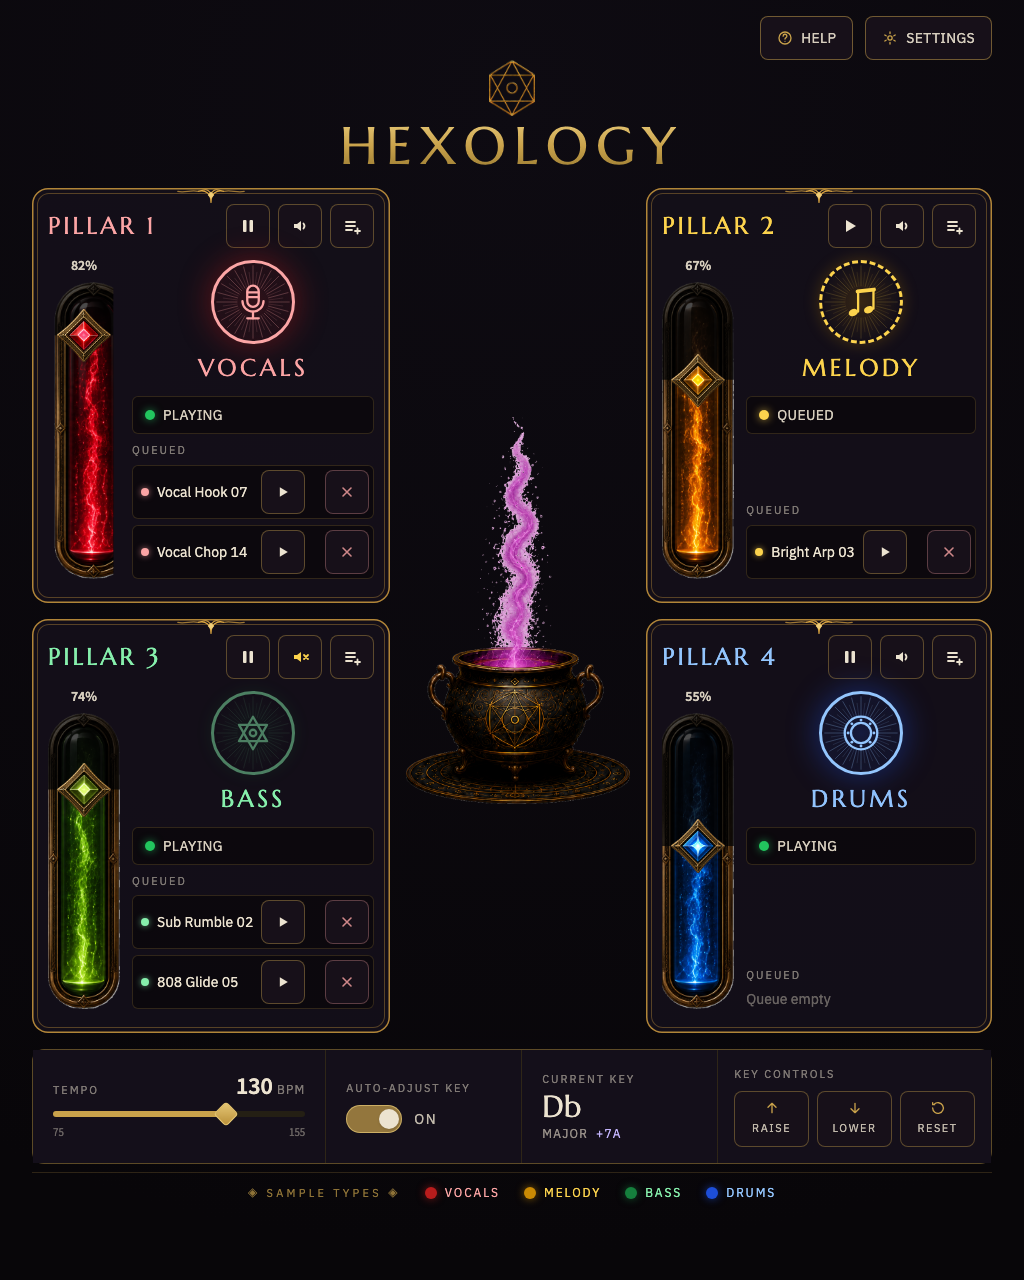
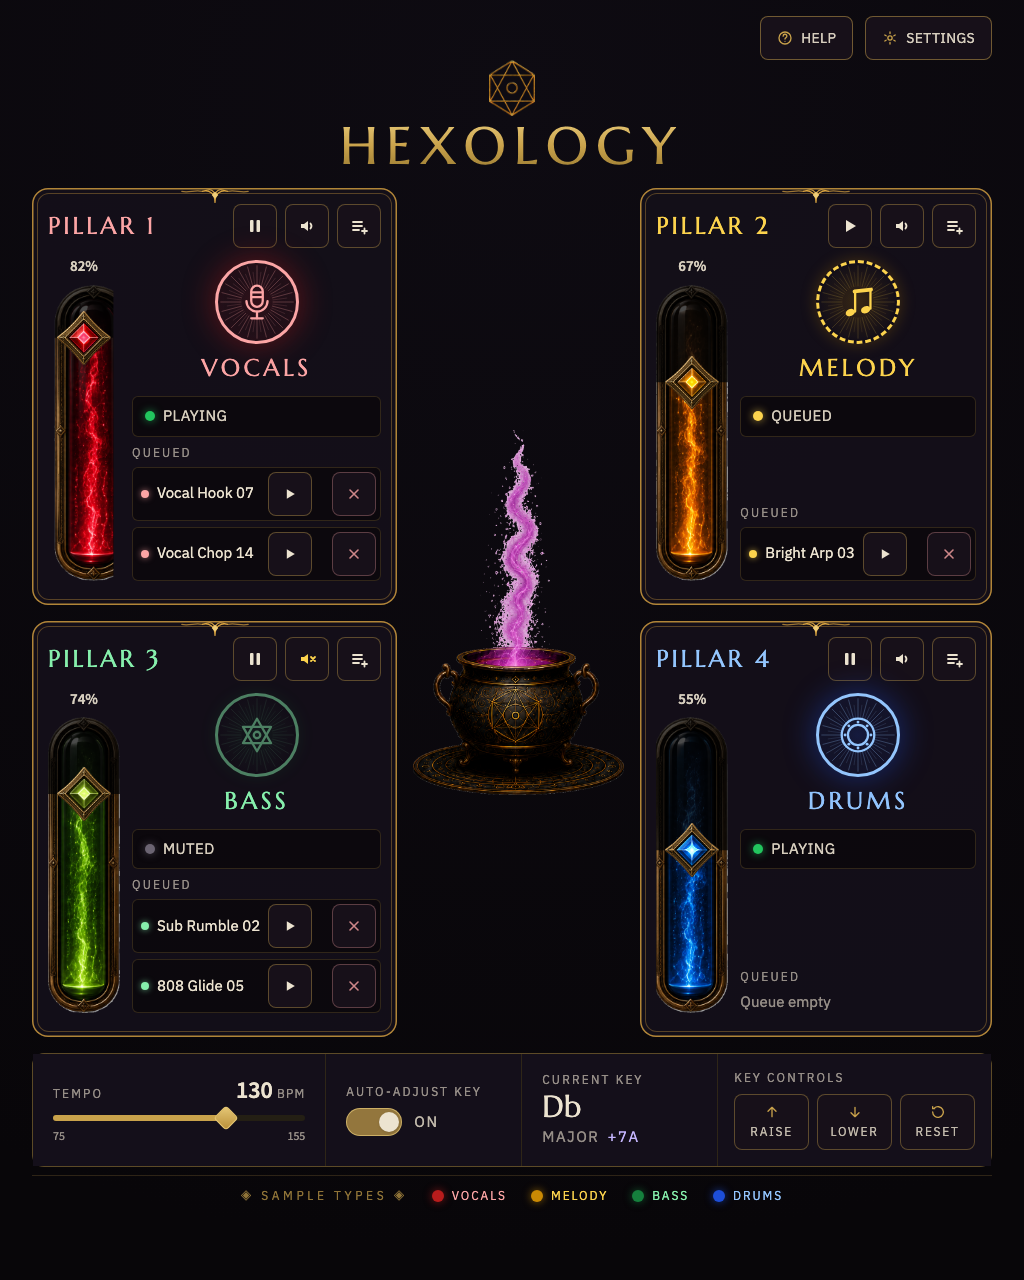
fix(wow-007a): address frontend-ui-designer review
Required: 44px hit area around the auto-adjust toggle (visual pill
unchanged); data/status text raised to the 15px floor and labels to
12px (§7.3); failing parchment/40-50 text opacities raised to /60 for
AA (§7.2). Recommended: MUTED status text cue overrides the playback
label (with dot colour, §3.9); sr-only volume label; key-control
accessible names ("Raise key" etc.); icon-set revision reconciled in
DECISIONS_NEEDED; remaining items recorded with rationales in the
implementation note. Refreshes the 1024x1280 screenshot.

diff --git a/src/component/SettingsBand.tsx b/src/component/SettingsBand.tsx
@@ -14,7 +14,8 @@ type Props = {
 const KeyControlButton = ({ glyph, label }: { glyph: JSX.Element; label: string }): JSX.Element => (
   <button
     type='button'
-    className='flex min-h-[56px] flex-1 flex-col items-center justify-center gap-1 rounded-lg border border-gold-line/40 bg-ink-btn px-3 font-data text-[11px] uppercase tracking-[0.14em] text-parchment/80'
+    aria-label={`${label} key`}
+    className='flex min-h-[56px] flex-1 flex-col items-center justify-center gap-1 rounded-lg border border-gold-line/40 bg-ink-btn px-3 font-data text-xs uppercase tracking-[0.14em] text-parchment/80'
   >
     <svg
       viewBox='0 0 24 24'
@@ -59,7 +60,7 @@ export const SettingsBand = ({
           <SectionLabel>Tempo</SectionLabel>
           <span className='font-number text-2xl font-semibold tabular-nums text-parchment'>
             {tempoBpm}
-            <span className='ml-1 font-data text-xs font-normal uppercase tracking-widest text-parchment/50'>
+            <span className='ml-1 font-data text-xs font-normal uppercase tracking-widest text-parchment/60'>
               bpm
             </span>
           </span>
@@ -71,7 +72,7 @@ export const SettingsBand = ({
             className='absolute top-1/2 h-[18px] w-[18px] -translate-y-1/2 rotate-45 rounded-[4px] border border-gold-bright/80 bg-gradient-to-br from-gold-bright to-[#b98f38]'
           />
         </div>
-        <div className='flex justify-between font-number text-[11px] tabular-nums text-parchment/40'>
+        <div className='flex justify-between font-number text-xs tabular-nums text-parchment/60'>
           <span>{tempoMin}</span>
           <span>{tempoMax}</span>
         </div>
@@ -81,23 +82,28 @@ export const SettingsBand = ({
       <div className='flex flex-col justify-center gap-2 bg-ink-panel px-5 py-4'>
         <SectionLabel>Auto-adjust key</SectionLabel>
         <div className='flex items-center gap-3'>
+          {/* 44px hit area wrapping the visually 56x28 pill (§7.1). */}
           <button
             type='button'
             aria-pressed={autoAdjustKey}
             aria-label='Auto-adjust key'
-            className={`relative h-7 w-14 rounded-full border transition-colors ${
-              autoAdjustKey
-                ? 'border-gold-bright/70 bg-gold-line/70'
-                : 'border-gold-line/30 bg-ink-btn'
-            }`}
+            className='-my-2 flex min-h-[44px] min-w-[56px] items-center justify-center'
           >
             <span
-              className={`absolute top-1/2 h-5 w-5 -translate-y-1/2 rounded-full bg-parchment shadow ${
-                autoAdjustKey ? 'left-[calc(100%-22px)]' : 'left-1'
+              className={`relative block h-7 w-14 rounded-full border transition-colors ${
+                autoAdjustKey
+                  ? 'border-gold-bright/70 bg-gold-line/70'
+                  : 'border-gold-line/30 bg-ink-btn'
               }`}
-            />
+            >
+              <span
+                className={`absolute top-1/2 h-5 w-5 -translate-y-1/2 rounded-full bg-parchment shadow ${
+                  autoAdjustKey ? 'left-[calc(100%-22px)]' : 'left-1'
+                }`}
+              />
+            </span>
           </button>
-          <span className='font-data text-sm tracking-widest text-parchment/80'>
+          <span className='font-data text-[15px] tracking-widest text-parchment/80'>
             {autoAdjustKey ? 'ON' : 'OFF'}
           </span>
         </div>
@@ -109,7 +115,7 @@ export const SettingsBand = ({
         <div className='flex items-baseline gap-2'>
           <span className='font-display text-3xl leading-none text-parchment'>{currentKey}</span>
         </div>
-        <div className='flex items-center gap-2 font-data text-xs uppercase tracking-widest'>
+        <div className='flex items-center gap-2 font-data text-[15px] uppercase tracking-widest'>
           <span className='text-parchment/60'>{keyQuality}</span>
           <span className='text-violet-300'>{keyDifference}</span>
         </div>

diff --git a/src/component/PillarCard.tsx b/src/component/PillarCard.tsx
@@ -31,6 +31,10 @@ const statusDotHex = (status: PillarStatus, tintHex: string): string => {
   }
 };
 
+// Muted overrides the playback status as a text cue (§3.9 muted token), so the
+// state never relies on the speaker icon alone.
+const MUTED_DOT_HEX = '#6b6472';
+
 /**
  * One pillar card — the single most-reused unit of the play-mode screen. All
  * four instances share this structure; only `category` + live state differ
@@ -42,7 +46,8 @@ export const PillarCard = ({ pillar }: Props): JSX.Element => {
   const tokens = category ? CategoryTheme.forType(category) : undefined;
 
   const headerStyle = tokens ? { color: tokens.tintHex } : undefined;
-  const dotHex = statusDotHex(status, tokens?.tintHex ?? '#9a9080');
+  const dotHex = muted ? MUTED_DOT_HEX : statusDotHex(status, tokens?.tintHex ?? '#9a9080');
+  const statusLabel = muted ? 'MUTED' : STATUS_LABEL[status];
   const visibleQueued = queued.slice(0, MAX_QUEUED_ROWS);
 
   return (
@@ -80,7 +85,7 @@ export const PillarCard = ({ pillar }: Props): JSX.Element => {
                   {tokens.label}
                 </p>
               ) : (
-                <p className='font-data text-sm uppercase tracking-[0.14em] text-parchment/40'>
+                <p className='font-data text-[15px] uppercase tracking-[0.14em] text-parchment/60'>
                   awaiting ingredient
                 </p>
               )}
@@ -92,8 +97,8 @@ export const PillarCard = ({ pillar }: Props): JSX.Element => {
                 className='h-2.5 w-2.5 rounded-full'
                 aria-hidden='true'
               />
-              <span className='font-data text-sm tracking-wide text-parchment/90'>
-                {STATUS_LABEL[status]}
+              <span className='font-data text-[15px] tracking-wide text-parchment/90'>
+                {statusLabel}
               </span>
             </div>
 
@@ -111,7 +116,7 @@ export const PillarCard = ({ pillar }: Props): JSX.Element => {
                     ))}
                   </ul>
                 ) : (
-                  <p className='font-data text-sm text-parchment/40'>Queue empty</p>
+                  <p className='font-data text-[15px] text-parchment/60'>Queue empty</p>
                 )}
               </div>
             )}

diff --git a/src/component/test/PillarCard.test.tsx b/src/component/test/PillarCard.test.tsx
@@ -63,9 +63,14 @@ describe('PillarCard', () => {
     expect(queryByRole('button', { name: 'Pause' })).not.toBeInTheDocument();
   });
 
-  it('shows an Unmute control when muted', () => {
+  it('shows MUTED status and an Unmute control when muted', () => {
     const muted: PillarView = { ...vocalsPillar, muted: true };
-    const { getByRole, queryByRole } = render(<PillarCard pillar={muted} />);
+    const { getByText, queryByText, getByRole, queryByRole } = render(
+      <PillarCard pillar={muted} />,
+    );
+    // Muted overrides the playback status as a text cue (never icon-only).
+    expect(getByText('MUTED')).toBeInTheDocument();
+    expect(queryByText('PLAYING')).not.toBeInTheDocument();
     expect(getByRole('button', { name: 'Unmute' })).toBeInTheDocument();
     expect(queryByRole('button', { name: 'Mute' })).not.toBeInTheDocument();
   });

diff --git a/src/component/VolumeTube.tsx b/src/component/VolumeTube.tsx
@@ -35,7 +35,11 @@ export const VolumeTube = ({ volumePercent, assetSlug }: Props): JSX.Element => 
 
   return (
     <div className='flex w-[72px] select-none flex-col items-center gap-1.5'>
-      <span className='font-number text-sm font-semibold tabular-nums text-parchment/90'>
+      {assetSlug && <span className='sr-only'>{`Volume ${clamped}%`}</span>}
+      <span
+        aria-hidden='true'
+        className='font-number text-[15px] font-semibold tabular-nums text-parchment/90'
+      >
         {assetSlug ? `${clamped}%` : ' '}
       </span>
       <div className='relative min-h-0 w-full flex-1'>

diff --git a/src/component/Legend.tsx b/src/component/Legend.tsx
@@ -10,7 +10,7 @@ const CATEGORIES: ClipTypes[] = [ClipTypes.Vox, ClipTypes.Melody, ClipTypes.Bass
  */
 export const Legend = (): JSX.Element => (
   <div className='flex items-center justify-center gap-6'>
-    <span className='font-data text-[11px] uppercase tracking-[0.3em] text-gold-line/70'>
+    <span className='font-data text-xs uppercase tracking-[0.3em] text-gold-line/70'>
       ◈ Sample Types ◈
     </span>
     <ul className='flex items-center gap-6'>

diff --git a/src/component/QueuedSampleRow.tsx b/src/component/QueuedSampleRow.tsx
@@ -44,7 +44,7 @@ export const QueuedSampleRow = ({ name, tintHex }: Props): JSX.Element => {
   return (
     <li className='flex items-center gap-2 rounded-md border border-gold-line/20 bg-ink-deep/70 py-1 pl-2 pr-1'>
       <span style={pip} className='h-2 w-2 shrink-0 rounded-full' aria-hidden='true' />
-      <span className='flex-1 truncate font-data text-sm text-parchment/85'>{name}</span>
+      <span className='flex-1 truncate font-data text-[15px] text-parchment/85'>{name}</span>
       <IconButton label={`Play ${name}`} className='h-11 w-11 shrink-0'>
         <PlayGlyph />
       </IconButton>

diff --git a/src/component/SectionLabel.tsx b/src/component/SectionLabel.tsx
@@ -4,7 +4,7 @@ type Props = {
 
 /** Small-caps, letter-spaced section label ("QUEUED", "TEMPO") — §3.4 type/label. */
 export const SectionLabel = ({ children }: Props): JSX.Element => (
-  <p className='font-data text-[11px] font-medium uppercase tracking-[0.18em] text-parchment/50'>
+  <p className='font-data text-xs font-medium uppercase tracking-[0.18em] text-parchment/60'>
     {children}
   </p>
 );

diff --git a/docs/agent-notes/wow-007a-frontend-ui-designer-review.md b/docs/agent-notes/wow-007a-frontend-ui-designer-review.md
@@ -1,0 +1,64 @@
+# WOW-007A — Play-mode visual-fidelity spike — frontend-ui-designer review
+
+- **Ticket:** WOW-007A (play-mode visual-fidelity spike)
+- **Date:** 2026-07-17
+- **Reviewer role:** frontend-ui-designer (structure / accessibility / spec-compliance only — **not** the visual-art-direction gate, which is human-owned and was granted in-session at iteration round 7)
+- **Reviewed SHA:** `313e90f4ff00aaacb9ea77023535173ad3155d50` (`feat/wow-007a-play-mode-visual-spike`, diff `main...HEAD`)
+- **Verdict:** **approve-with-nits** — the structural, semantic, motion, and layout acceptance criteria all pass; the Required items below are objective §7 floor violations that are mechanical one-line class fixes and do **not** alter the human-approved look. Fix them in this PR's fix round (preferred) or as explicit WOW-007 line items.
+
+## How this was verified
+
+- Read the full `main...HEAD` diff (all new components, tokens, types, mock, tests, config).
+- `yarn test`: 30 files / 229 tests green.
+- Live DOM inspection at exactly **1024×1280** on the running dev server (`#play-spike`): `scrollHeight === 1280`, `scrollWidth === 1024` (no scroll either axis), zero console errors.
+- Measured every rendered `<button>` bounding box and the computed font-size of each representative text role.
+- Computed WCAG contrast ratios (alpha-blended against effective backgrounds) for every low-opacity text token used.
+
+## Required
+
+1. **Auto-adjust-key toggle is 56×28 px — below the 44 px touch floor** (`src/component/SettingsBand.tsx:88`, `h-7 w-14`). §7.1 sets a hard 44 px floor and _specifically_ cites the old audit UI-05 24 px toggle as the thing it fixes; this re-introduces the same violation on the new screen (measured live: 56×28). Fix: enlarge the control, or keep the 28 px visual pill and extend the hit area to ≥44 px (padding / pseudo-element), plus ≥8 px clearance from neighbours.
+2. **Data/status text below the 15 px floor (§7.3)** — measured live at 14 px (`text-sm`) or 12 px (`text-xs`):
+   - `src/component/PillarCard.tsx:95` — pillar status text ("PLAYING"/"QUEUED"/…), 14 px. Operator-critical.
+   - `src/component/QueuedSampleRow.tsx:47` — queued sample name, 14 px.
+   - `src/component/VolumeTube.tsx:38` — volume percentage, 14 px.
+   - `src/component/SettingsBand.tsx:100` — toggle ON/OFF state, 14 px.
+   - `src/component/SettingsBand.tsx:112–115` — key quality + key difference, 12 px.
+     Fix: `text-[15px]`/`text-base` (data) per §7.3. (Category names are exactly 24 px — meets the ≥24 px floor; tempo value 24 px — fine.)
+3. **Labels below the 12 px floor (§7.3)** — measured at 11 px:
+   - `src/component/SectionLabel.tsx:7` — all section labels ("QUEUED", "TEMPO", "CURRENT KEY", "KEY CONTROLS", …).
+   - `src/component/SettingsBand.tsx:17` — Raise/Lower/Reset button labels.
+   - `src/component/Legend.tsx:13` — "Sample Types" legend label.
+   - `src/component/SettingsBand.tsx:74` — tempo min/max range values (data-adjacent, also 11 px).
+     Fix: bump to ≥12 px.
+4. **Measured AA contrast failures on non-category text (§7.2)** — the §3.3 category-tint system itself passes handsomely (tints 9.9–13.5:1, verified), but the low-opacity parchment strings fall short on the panel:
+   - `text-parchment/40` ≈ **3.24:1** (needs 4.5:1): "Queue empty" (`src/component/PillarCard.tsx:114`), "awaiting ingredient" (`src/component/PillarCard.tsx:83`), tempo min/max (`src/component/SettingsBand.tsx:74`).
+   - `text-parchment/50` ≈ **4.41:1** (marginally under 4.5:1 at 11 px): `src/component/SectionLabel.tsx:7`. (The empty-pillar header at 24 px display passes the 3:1 large-text bar at the same opacity — fine.)
+     Fix: raise these to ≈`/60`+ (5.9:1 measured) — imperceptible against the approved look. The axe-core pass is already WOW-007 acceptance scope; these concrete values are supplied so that pass starts from known numbers rather than re-discovering them.
+
+## Recommended
+
+1. **Muted state is under-signalled vs the §4 state model** (`src/component/PillarCard.tsx:95` + `src/component/PillarMedallion.tsx:79`): mock pillar 3 is muted yet the status row reads "PLAYING"; mute is conveyed only by the small speaker-x icon and a medallion dim (no §4 slash overlay / greyed name). Not colour-only (icon carries it), so not a §7.2 violation — but "why is pillar 3 silent" (UX principle 4) deserves an explicit "MUTED" text cue in the status row when wired.
+2. **Volume value has no label** (`src/component/VolumeTube.tsx:38`): a bare "82%" — percent of what? Add a small "VOL" section label or an `aria-label`/`role="img"` name on the tube group for screen-reader and operator clarity.
+3. **Key-control accessible names**: buttons expose "Raise"/"Lower"/"Reset" (`src/component/SettingsBand.tsx:122–124`); the requirements name them exactly "Raise key / Lower key / Reset key" (visual-direction, Required layout corrections). The section label carries it visually; add `aria-label='Raise key'` etc. so the standalone names match the spec.
+4. **Bass icon meaning conflicts with the recorded icon decision**: `src/component/CategoryIcon.tsx:11–14` cites "human direction 2026-07-15" for a hexagram (Bass) + beamed notes (Melody), but DESIGN_PROPOSAL_001 §2/§3.3 and DECISIONS_NEEDED record the opposite 2026-07-15 decision — conventional mic / treble-clef / bass-clef / drum-kit, with "no arbitrary occult symbol" for a category. Icons are already flagged interim (no re-flag of that); the ask here is **reconcile the record**: either the human re-decided in-session (then update §3.3 / DECISIONS_NEEDED) or the interim glyphs' _meanings_ should converge on the decided set when the bespoke icon task runs.
+5. **Legend dot for Drums** (`src/component/Legend.tsx:22`): blue-700 fill measures ≈2.8:1 non-text against the panel/page — the exact §7.2 Drums-ring caveat. Adjacent text carries the meaning, so no cue is lost; make sure the WOW-007 automated pass checks the legend dots too, not just the medallion rings.
+6. **`text-violet-300` for the key difference** (`src/component/SettingsBand.tsx:114`): an off-system hue — violet is neither a category hue nor a §3.9 semantic token. Contrast is fine (10.2:1); consider a named token (or parchment) so the palette stays closed. Also note "+7A" is mock data echoing the reference image's placeholder string (§2 non-literal); the real key-difference format comes from the contract when wired.
+7. **Focus indicators**: `src/component/IconButton.tsx:22` and the other buttons define no `focus-visible` treatment; §3.5 specifies a 3 px gilt ring, 2 px offset. Browser defaults currently apply (nothing is suppressed), so this is a wiring-phase task, not a defect.
+8. **Tempo slider**: display-only `div`s in the spike (fine); when wired, the thumb needs the §3.6 ≥44 px invisible hit area — carry into WOW-007.
+
+## What passes (verified)
+
+- **Touch targets** (except the toggle above): every rendered button measures ≥44×44 — pillar controls 44×44, queue play/remove 44×44 with 12 px separation and red-tinted remove, Help/Settings 44 high, key controls 56 high. Inter-target spacing ≥8 px everywhere measured (queue rows: 14 px effective button-to-button).
+- **Typography roles (§3.4)**: decorative Marcellus confined to wordmark / pillar headers / category names / key glyph (all §3.4-sanctioned); every operator-critical string is in the legible data/number faces. Sizes fail only the floors listed above.
+- **Category text = `-300` tints, never raw `-700`** (§3.3/§7.2): verified across medallion, name, legend; fills reserved for dots/glows/LED-match. `ColorUtil` stays the single source of truth (`CategoryTheme` layering is clean and unit-asserted).
+- **Motion (§7.4)**: exactly one ambient animation — `pulse-calm`, 2.4 s opacity ease (≈0.42 Hz), `motion-safe`-gated; queued state stays distinguishable without it (dashed ring). Cauldron is a static image. The pre-existing 200 ms `fadein` keyframe is legacy config, untouched by and unused in this screen. Nothing flashes.
+- **Colour never the only cue**: status = dot + text; queued = dashed ring + pulse + text; empty = "?" + text; categories = icon + name + colour; legend = dot + name.
+- **Semantics**: single `h1` (HEXOLOGY), four `h2` pillars in order, `ul/li` for queues and legend, `aria-label` on every icon-only button, `aria-pressed` on the toggle, decorative images `alt=''`+`aria-hidden`, cauldron `alt='Cauldron'`, zero images missing `alt`.
+- **Layout**: exact 1024×1280 fit (scrollHeight/Width 1280/1024, no scroll), four identical `PillarCard` instances (symmetry by construction — one component, category+state props only), empty pillar shows no category identity (no icon/name/colour; grayscale tube; unit-tested).
+- **No rejected aesthetics**: no generic dashboard, no broad glossy gradients, no Fondamento in the new surface, placeholder status of interim icons explicitly labelled in code and the implementation note.
+
+## Explicitly out of scope for this review
+
+- **The visual-fidelity gate itself** — human-owned (DESIGN_PROPOSAL_001 §"Visual-fidelity gate"); the human approved this render through 7 in-session rounds. Nothing here grants or withholds visual approval.
+- **Human-directed visual choices** — asset selection/processing, amber double-border frame + top-centre flourish, inner ray-burst medallion treatment, header control placement, queued-row design, wordmark gilt gradient, two-row queue cap. Not relitigated.
+- **Items already flagged in the implementation note / DECISIONS_NEEDED** — queue-remove confirm-gate, interim icon _art_ (§3.11), unwired Help/Settings, deferred axe-core pass, the PRD F3 queued-names divergence, mode-taxonomy/route follow-ups, Melody-vs-LED re-verification.

diff --git a/docs/agent-notes/wow-007a-frontend-implementer-implementation.md b/docs/agent-notes/wow-007a-frontend-implementer-implementation.md
@@ -85,7 +85,12 @@ complete asset later if desired.
 - Wired-up queue **remove** must get a confirm-gate (UX_UI_PRINCIPLES 2).
 - Help/Settings are static affordances; the Settings modal is WOW-007 scope.
 - An automated contrast pass (axe-core) is WOW-007 acceptance scope; the
-  spike uses the §3.3 AA tint system by construction.
+  spike uses the §3.3 AA tint system by construction. The ui-designer review
+  flagged the Drums legend dot (≈2.8:1 non-text) for that pass.
+- The key-difference `violet-300` accent is deliberately off-token — it
+  matches the primary reference's violet "+7A" treatment.
+- Focus-ring styling and enlarged slider-thumb hit areas (§3.5/§3.6) are
+  wiring-phase tasks — the spike's controls are display-only affordances.
 
 ## Human demo steps
 

diff --git a/docs/DECISIONS_NEEDED.md b/docs/DECISIONS_NEEDED.md
@@ -94,6 +94,7 @@ yes
 - Melody hue (§8.3): **warm yellow** — `ColorUtil` `bg-yellow-700` → `bg-yellow-600`; physical-LED re-verification still pending → src/util/ColorUtil.ts
 - Pillar frame (§8.5): **amber double border, no corner embellishments, top-centre flourish** — iterated to approval in the WOW-007A spike → src/component/PillarFrame.tsx
 - Primary artwork: **human-supplied asset pack** (hexology-ui-assets: logo symbol, cauldron, per-category slider tubes + gem handles) replaces all interim SVG art → public/images/, wow-007a implementation note
+- Category icon set **revised in-session (human, 2026-07-16)**: **mic / beamed musical notes / hexagram / drum-head**, superseding the 2026-07-15 mic/treble-clef/bass-clef/drum-kit choice for the spike (the clef glyphs read poorly at medallion size; the hexagram matches the reference's bass glyph). Rendered as interim SVG line art; the bespoke engraved icon family (§3.11) remains the final-asset task → src/component/CategoryIcon.tsx
 - Mode taxonomy: **play / tutorial / DJ, debug demoted to a panel** — recorded above as open until doc propagation + tutorial design
 - Per-mode URL routes wanted — deferred to a follow-up ticket (ADR-005 amendment) — recorded above
 